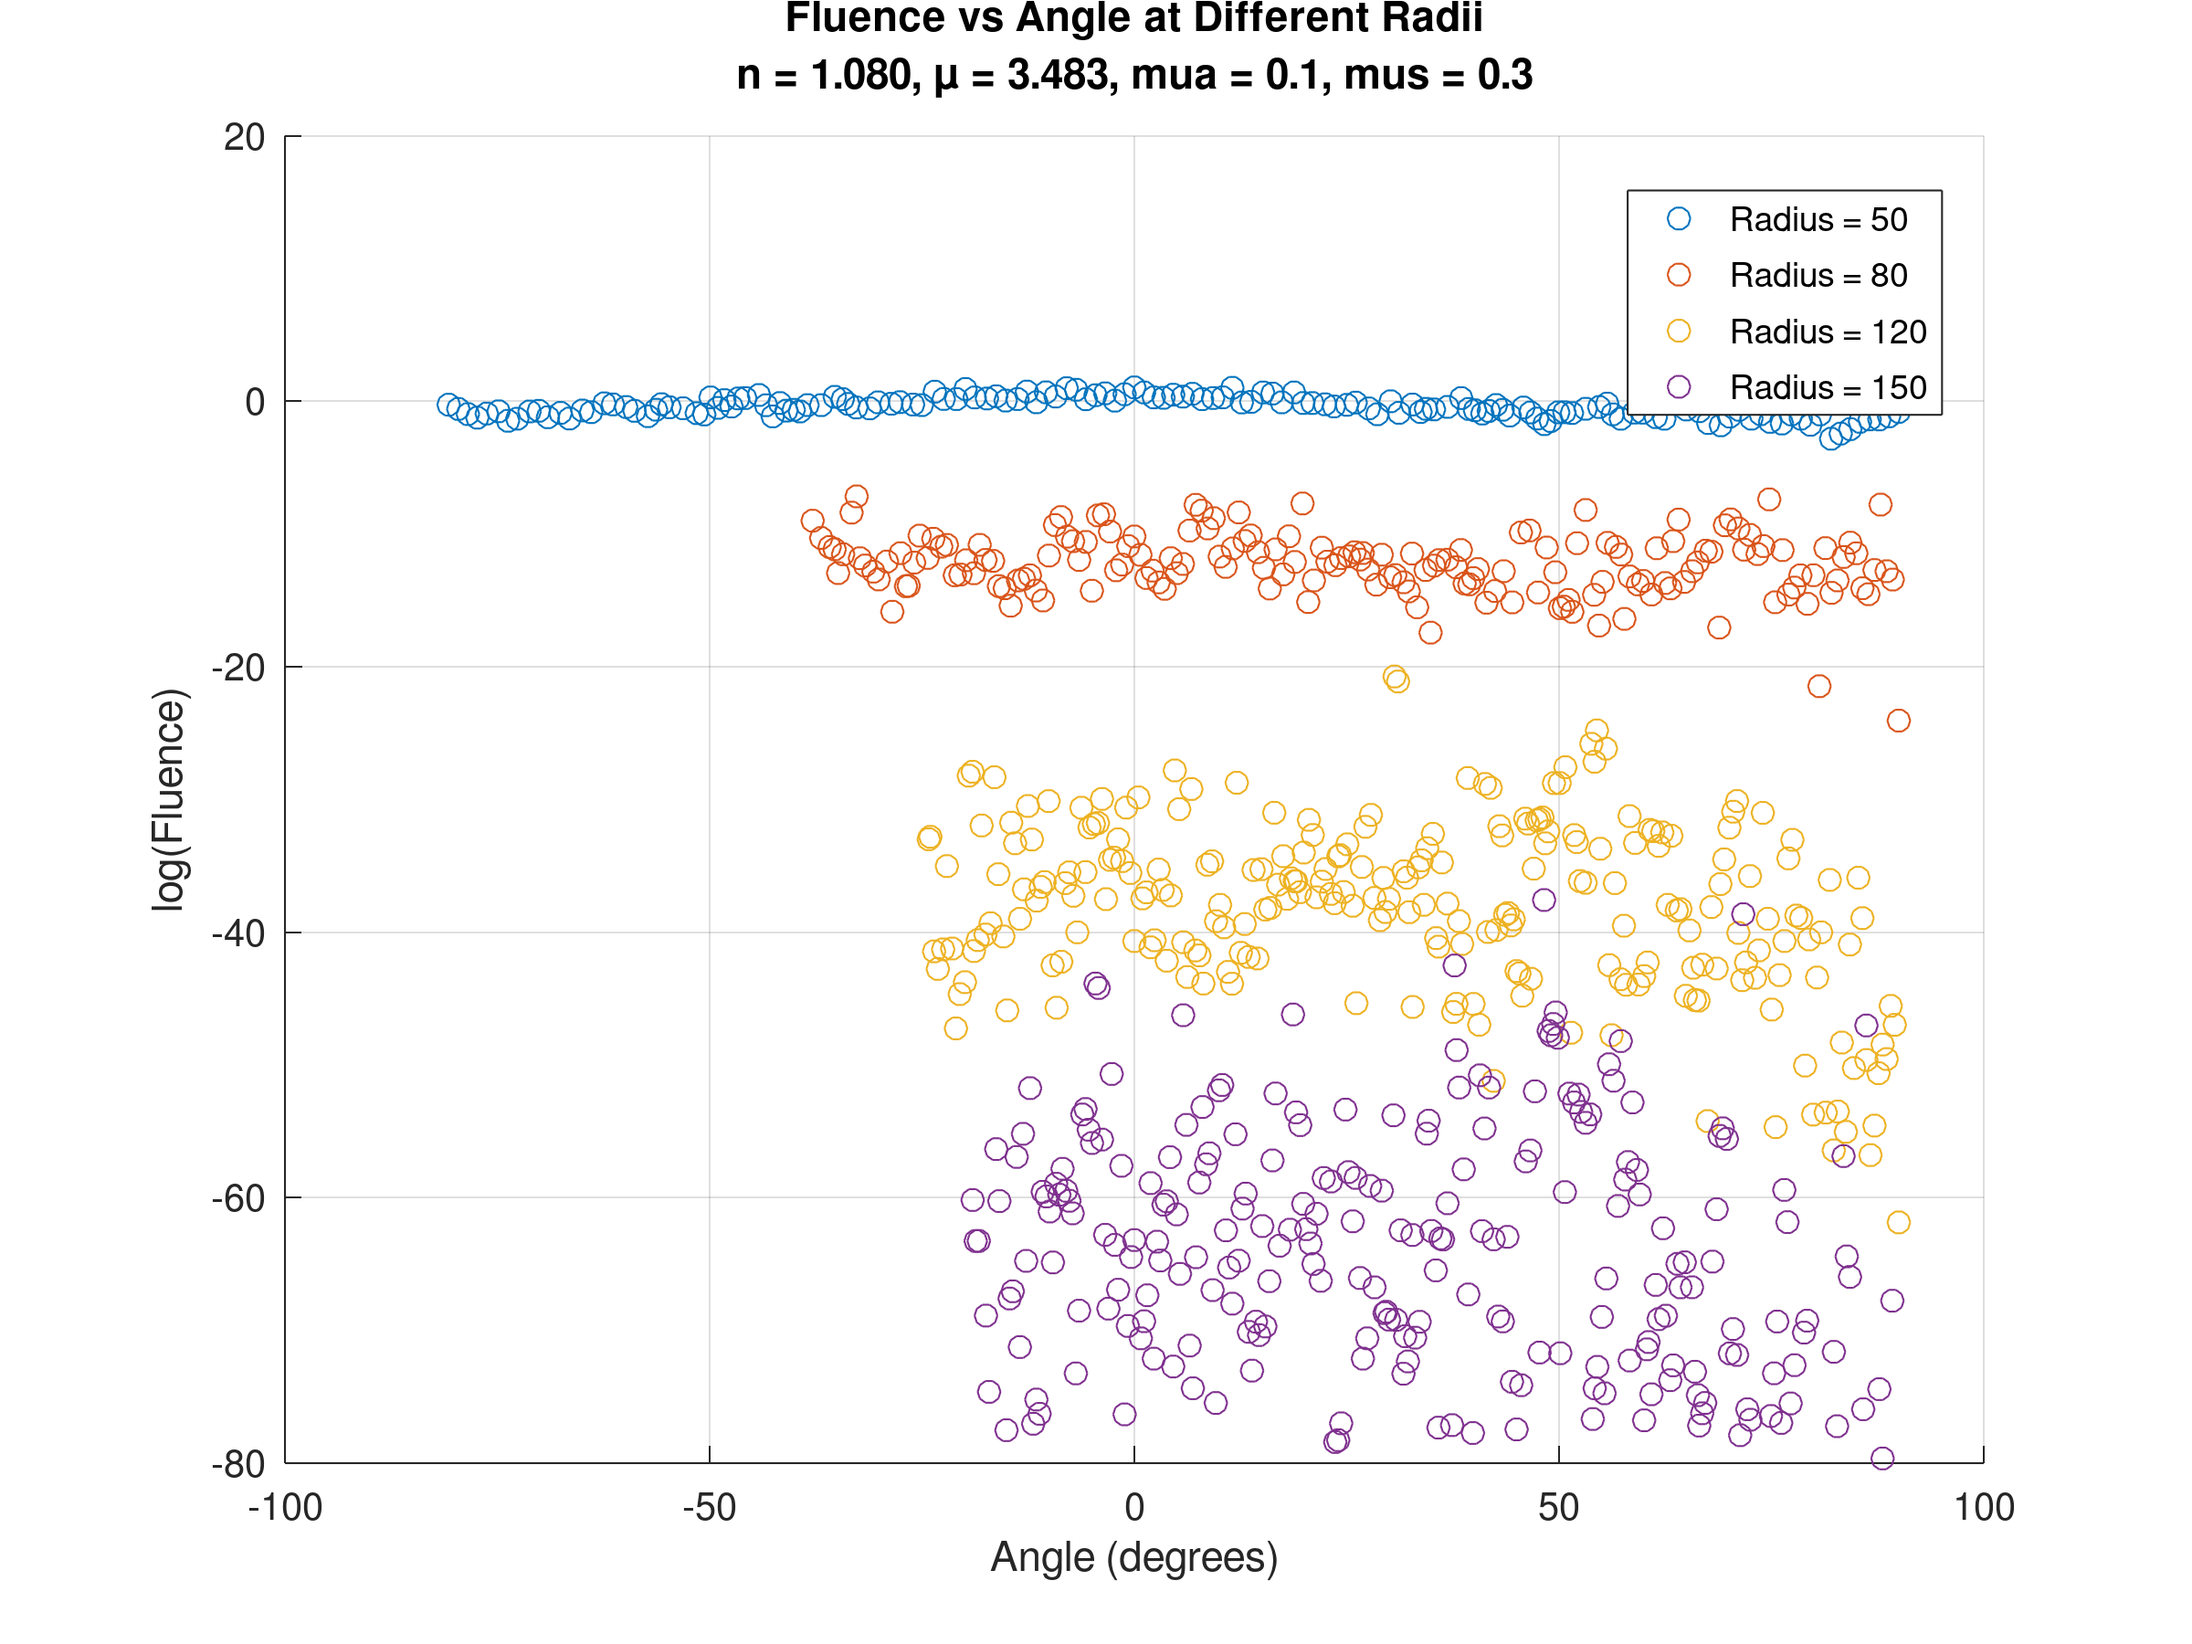
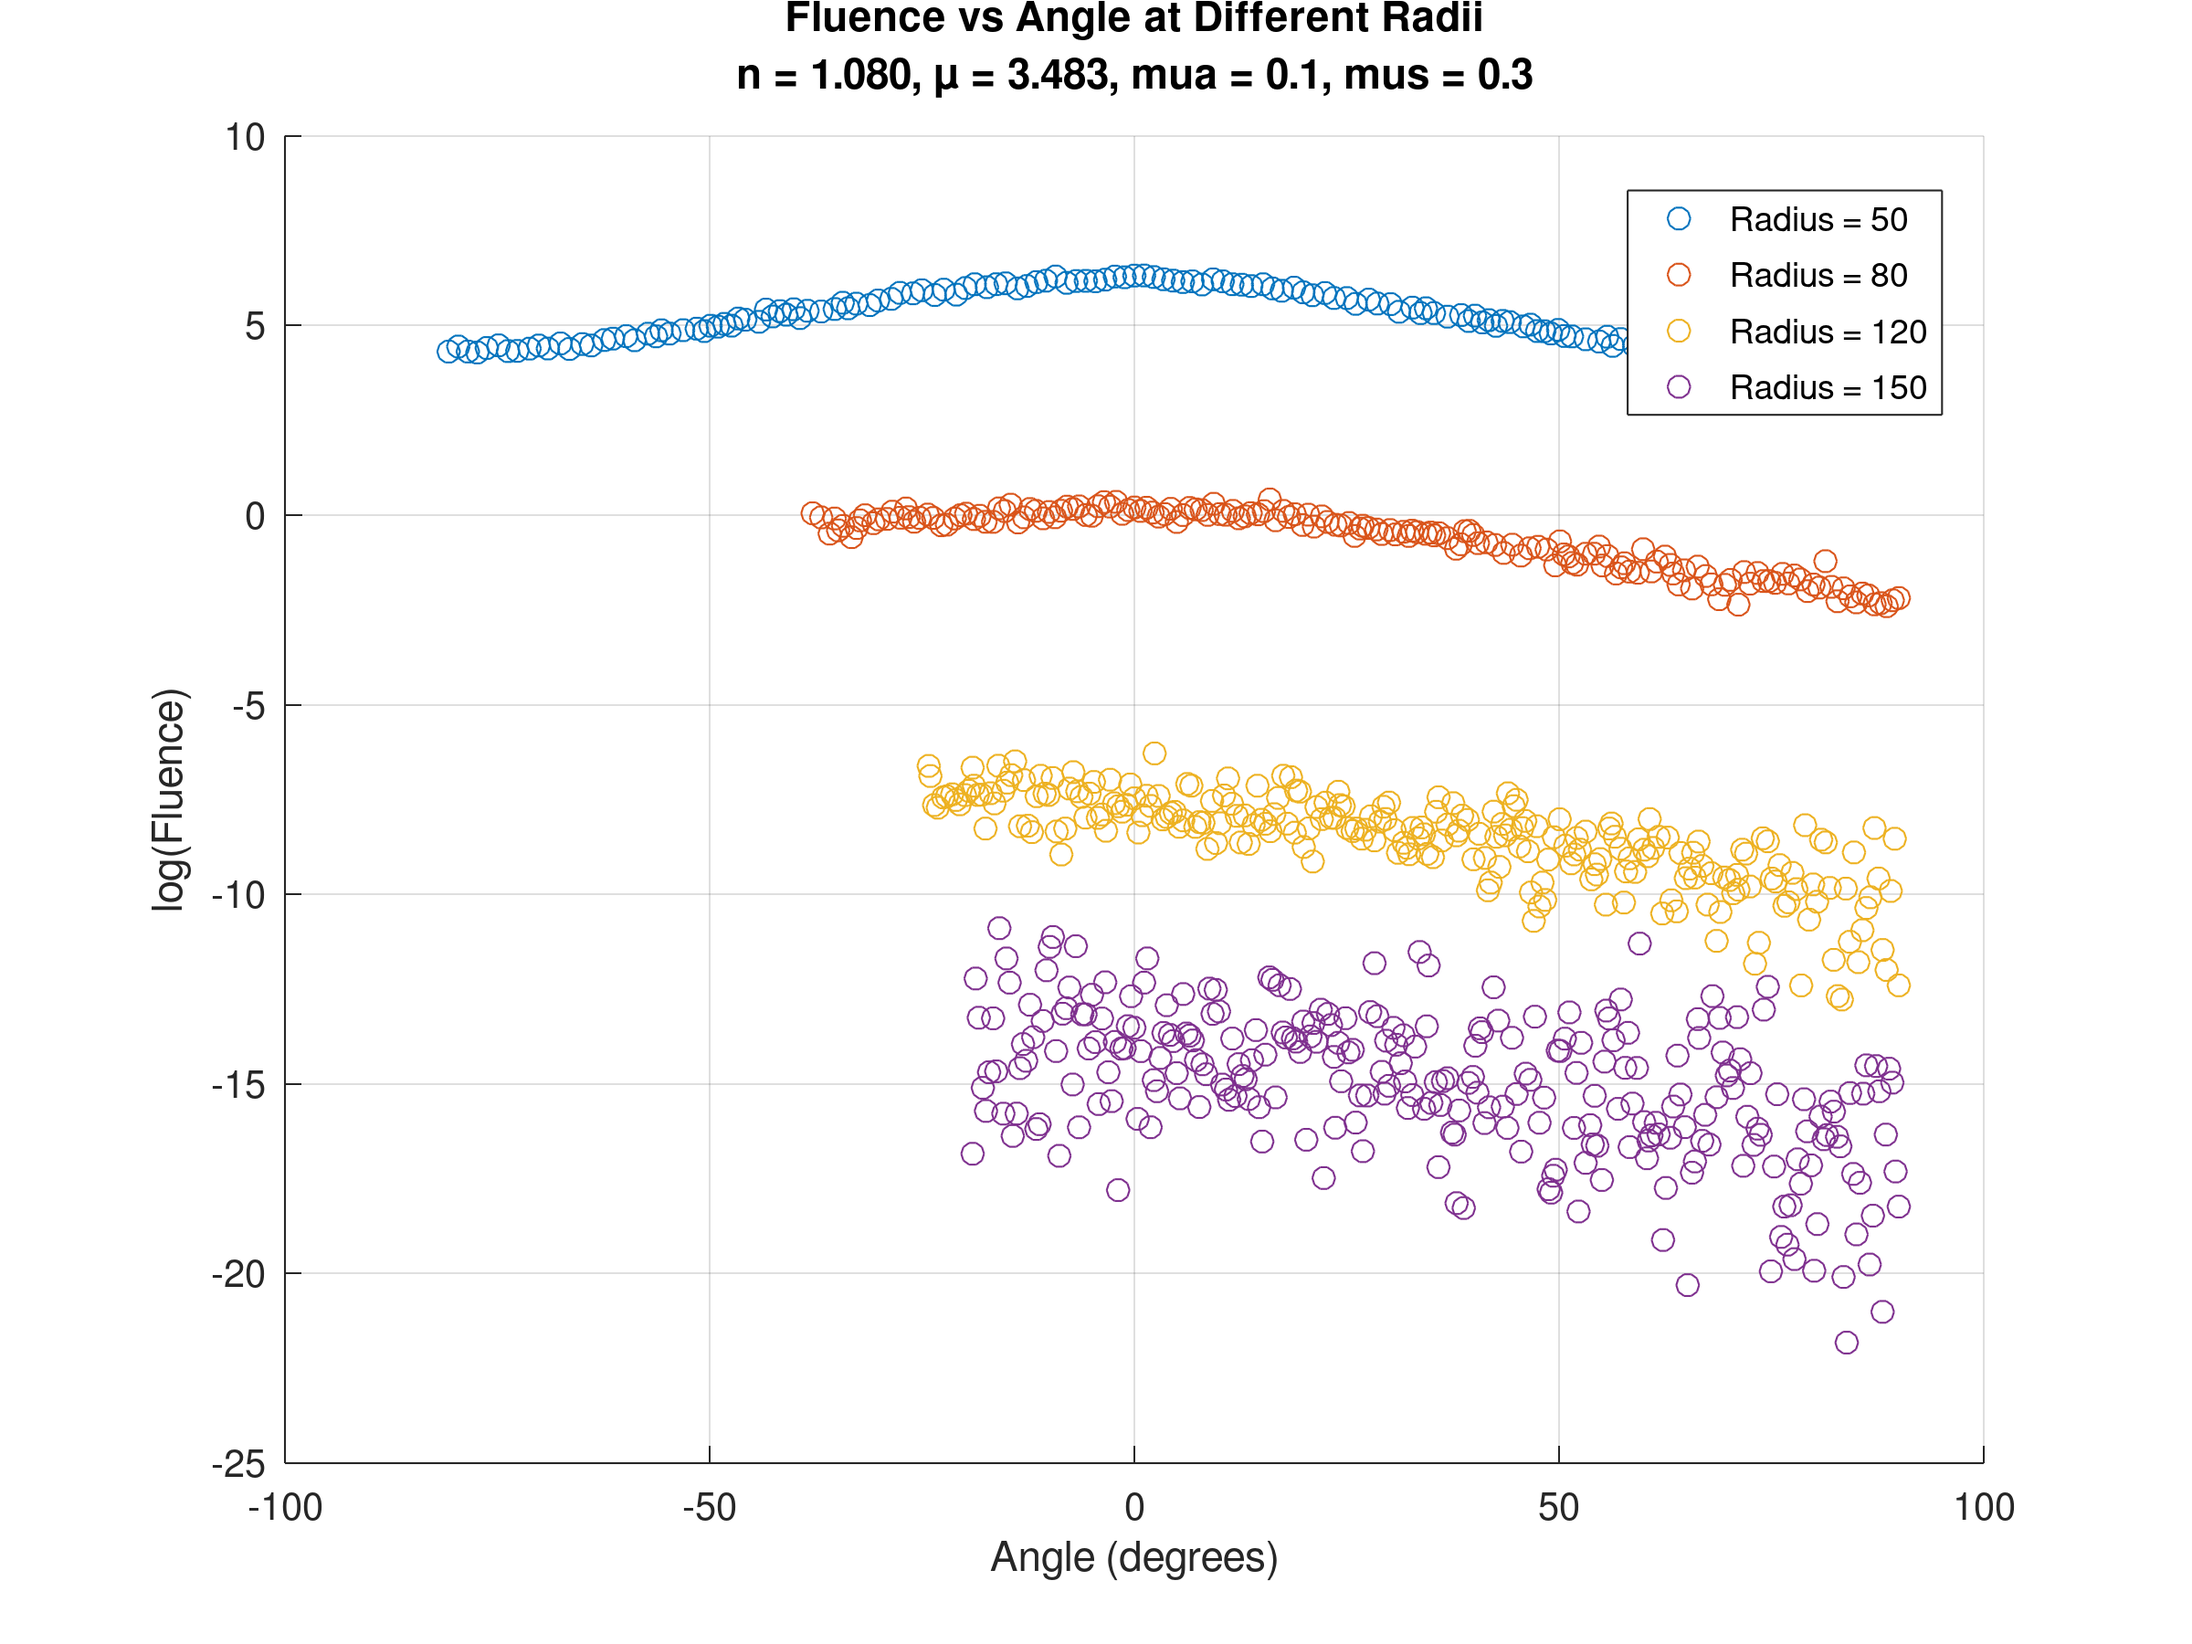
180

diff --git a/MonteCarlo/MonteCarloProj/fullcircleanalysis.m b/MonteCarlo/MonteCarloProj/fullcircleanalysis.m
@@ -1,0 +1,248 @@
+function [indices, thetaDeg, intensity, actualRadius] = ...
+    fullCircle2D(data, center, srcdir, radius, dr)
+
+% INPUTS:
+%
+%   data
+%       3-D array containing MCX fluence/intensity values.
+%
+%   center
+%       Source position in MATLAB voxel-index coordinates:
+%       [x y z]
+%
+%   srcdir
+%       Source direction:
+%       [dx dy dz]
+%
+%       For this X-Z slice function, the Y component should be zero.
+%       Example:
+%           srcdir = [0 0 1];
+%
+%   radius
+%       Desired distance from the source, in voxels.
+%
+%   dr
+%       Thickness of the sampling shell, in voxels.
+%
+%
+% OUTPUTS:
+%
+%   indices
+%       N x 3 array containing selected voxel indices:
+%
+%           [x y z]
+%
+%   thetaDeg
+%       Signed angle relative to srcdir, in degrees.
+%
+%       For srcdir = [0 0 1]:
+%
+%            theta =    0   -> +Z, straight ahead
+%            theta =   90   -> +X
+%            theta =  -90   -> -X
+%            theta = +/-180 -> -Z, directly behind
+%
+%       Full angular range:
+%
+%            -180 <= theta <= 180
+%
+%   intensity
+%       MCX data value at each selected voxel.
+%
+%   actualRadius
+%       Actual distance of every selected voxel from the source.
+%
+%
+% EXAMPLE:
+%
+%   fluence = sum(flux.data, 4);
+%
+%   [idx, theta, I, R] = fullCircle2D( ...
+%       fluence, [250 250 250], [0 0 1], 100, 1);
+%
+%   scatter(theta, log(I));
+%   xlabel('Angle (degrees)');
+%   ylabel('log(Fluence)');
+%   xlim([-180 180]);
+%   grid on;
+
+
+    %%%%%%%%%%%%%%%%%%%%%%%%%%%%%%%%%%%%%%%%%%%%%%%%%%%%%%%%%%%%%%%
+    % Input checking
+    %%%%%%%%%%%%%%%%%%%%%%%%%%%%%%%%%%%%%%%%%%%%%%%%%%%%%%%%%%%%%%%
+
+    center = double(center(:).');
+    srcdir = double(srcdir(:).');
+
+
+    %%%%%%%%%%%%%%%%%%%%%%%%%%%%%%%%%%%%%%%%%%%%%%%%%%%%%%%%%%%%%%%
+    % Normalize source direction
+    %%%%%%%%%%%%%%%%%%%%%%%%%%%%%%%%%%%%%%%%%%%%%%%%%%%%%%%%%%%%%%%
+
+    srcNorm = norm(srcdir);
+
+    if srcNorm == 0
+        error('srcdir cannot be [0 0 0].');
+    end
+
+    srcdir = srcdir / srcNorm;
+
+
+    %%%%%%%%%%%%%%%%%%%%%%%%%%%%%%%%%%%%%%%%%%%%%%%%%%%%%%%%%%%%%%%
+    % This function uses an X-Z slice
+    %%%%%%%%%%%%%%%%%%%%%%%%%%%%%%%%%%%%%%%%%%%%%%%%%%%%%%%%%%%%%%%
+
+    if abs(srcdir(2)) > 1e-12
+        error(['For this X-Z slice function, srcdir(2) must be zero. ', ...
+               'Example: srcdir = [0 0 1].']);
+    end
+
+
+    gridSize = size(data);
+
+    Nx = gridSize(1);
+    Ny = gridSize(2);
+    Nz = gridSize(3);
+
+
+    %%%%%%%%%%%%%%%%%%%%%%%%%%%%%%%%%%%%%%%%%%%%%%%%%%%%%%%%%%%%%%%
+    % Choose Y slice
+    %%%%%%%%%%%%%%%%%%%%%%%%%%%%%%%%%%%%%%%%%%%%%%%%%%%%%%%%%%%%%%%
+
+    ySlice = round(center(2));
+
+    if ySlice < 1 || ySlice > Ny
+        error('The source Y position lies outside the data volume.');
+    end
+
+
+    %%%%%%%%%%%%%%%%%%%%%%%%%%%%%%%%%%%%%%%%%%%%%%%%%%%%%%%%%%%%%%%
+    % Find search region
+    %%%%%%%%%%%%%%%%%%%%%%%%%%%%%%%%%%%%%%%%%%%%%%%%%%%%%%%%%%%%%%%
+
+    outerRadius = radius + dr/2;
+
+    xMin = max(1, floor(center(1) - outerRadius));
+    xMax = min(Nx, ceil(center(1) + outerRadius));
+
+    zMin = max(1, floor(center(3) - outerRadius));
+    zMax = min(Nz, ceil(center(3) + outerRadius));
+
+
+    %%%%%%%%%%%%%%%%%%%%%%%%%%%%%%%%%%%%%%%%%%%%%%%%%%%%%%%%%%%%%%%
+    % Create X-Z slice
+    %%%%%%%%%%%%%%%%%%%%%%%%%%%%%%%%%%%%%%%%%%%%%%%%%%%%%%%%%%%%%%%
+
+    [X, Z] = ndgrid(xMin:xMax, zMin:zMax);
+
+    Y = ySlice * ones(size(X));
+
+
+    %%%%%%%%%%%%%%%%%%%%%%%%%%%%%%%%%%%%%%%%%%%%%%%%%%%%%%%%%%%%%%%
+    % Displacement from source
+    %%%%%%%%%%%%%%%%%%%%%%%%%%%%%%%%%%%%%%%%%%%%%%%%%%%%%%%%%%%%%%%
+
+    dX = X - center(1);
+    dY = Y - center(2);
+    dZ = Z - center(3);
+
+
+    %%%%%%%%%%%%%%%%%%%%%%%%%%%%%%%%%%%%%%%%%%%%%%%%%%%%%%%%%%%%%%%
+    % Distance from source
+    %%%%%%%%%%%%%%%%%%%%%%%%%%%%%%%%%%%%%%%%%%%%%%%%%%%%%%%%%%%%%%%
+
+    R = sqrt(dX.^2 + dY.^2 + dZ.^2);
+
+
+    %%%%%%%%%%%%%%%%%%%%%%%%%%%%%%%%%%%%%%%%%%%%%%%%%%%%%%%%%%%%%%%
+    % Select points at requested radius
+    %%%%%%%%%%%%%%%%%%%%%%%%%%%%%%%%%%%%%%%%%%%%%%%%%%%%%%%%%%%%%%%
+
+    innerRadius = radius - dr/2;
+    outerRadius = radius + dr/2;
+
+    onShell = ...
+        (R >= innerRadius) & ...
+        (R <  outerRadius);
+
+
+    %%%%%%%%%%%%%%%%%%%%%%%%%%%%%%%%%%%%%%%%%%%%%%%%%%%%%%%%%%%%%%%
+    % FULL 360 DEGREE SELECTION
+    %
+    % Unlike the previous function, we DO NOT remove points
+    % behind the source.
+    %%%%%%%%%%%%%%%%%%%%%%%%%%%%%%%%%%%%%%%%%%%%%%%%%%%%%%%%%%%%%%%
+
+    selected = onShell;
+
+
+    %%%%%%%%%%%%%%%%%%%%%%%%%%%%%%%%%%%%%%%%%%%%%%%%%%%%%%%%%%%%%%%
+    % Extract coordinates
+    %%%%%%%%%%%%%%%%%%%%%%%%%%%%%%%%%%%%%%%%%%%%%%%%%%%%%%%%%%%%%%%
+
+    Xs = X(selected);
+    Ys = Y(selected);
+    Zs = Z(selected);
+
+    indices = [Xs, Ys, Zs];
+
+    actualRadius = R(selected);
+
+
+    %%%%%%%%%%%%%%%%%%%%%%%%%%%%%%%%%%%%%%%%%%%%%%%%%%%%%%%%%%%%%%%
+    % Calculate signed angle
+    %
+    % For srcdir = [0 0 1]:
+    %
+    %                    0 deg
+    %                      +Z
+    %                       ^
+    %                       |
+    %          -90 deg      |      +90 deg
+    %             -X <------o------> +X
+    %                       |
+    %                       |
+    %                       v
+    %                      -Z
+    %                  +/-180 deg
+    %
+    %%%%%%%%%%%%%%%%%%%%%%%%%%%%%%%%%%%%%%%%%%%%%%%%%%%%%%%%%%%%%%%
+
+    sX = srcdir(1);
+    sZ = srcdir(3);
+
+    dot2D = ...
+        sX .* dX(selected) + ...
+        sZ .* dZ(selected);
+
+    cross2D = ...
+        sZ .* dX(selected) - ...
+        sX .* dZ(selected);
+
+    thetaDeg = atan2d(cross2D, dot2D);
+
+
+    %%%%%%%%%%%%%%%%%%%%%%%%%%%%%%%%%%%%%%%%%%%%%%%%%%%%%%%%%%%%%%%
+    % Get MCX intensity/fluence
+    %%%%%%%%%%%%%%%%%%%%%%%%%%%%%%%%%%%%%%%%%%%%%%%%%%%%%%%%%%%%%%%
+
+    linearIndices = sub2ind( ...
+        size(data), ...
+        Xs, ...
+        Ys, ...
+        Zs);
+
+    intensity = data(linearIndices);
+
+
+    %%%%%%%%%%%%%%%%%%%%%%%%%%%%%%%%%%%%%%%%%%%%%%%%%%%%%%%%%%%%%%%
+    % Sort by angle
+    %%%%%%%%%%%%%%%%%%%%%%%%%%%%%%%%%%%%%%%%%%%%%%%%%%%%%%%%%%%%%%%
+
+    [thetaDeg, order] = sort(thetaDeg);
+
+    indices      = indices(order, :);
+    intensity    = intensity(order);
+    actualRadius = actualRadius(order);
+
+end
